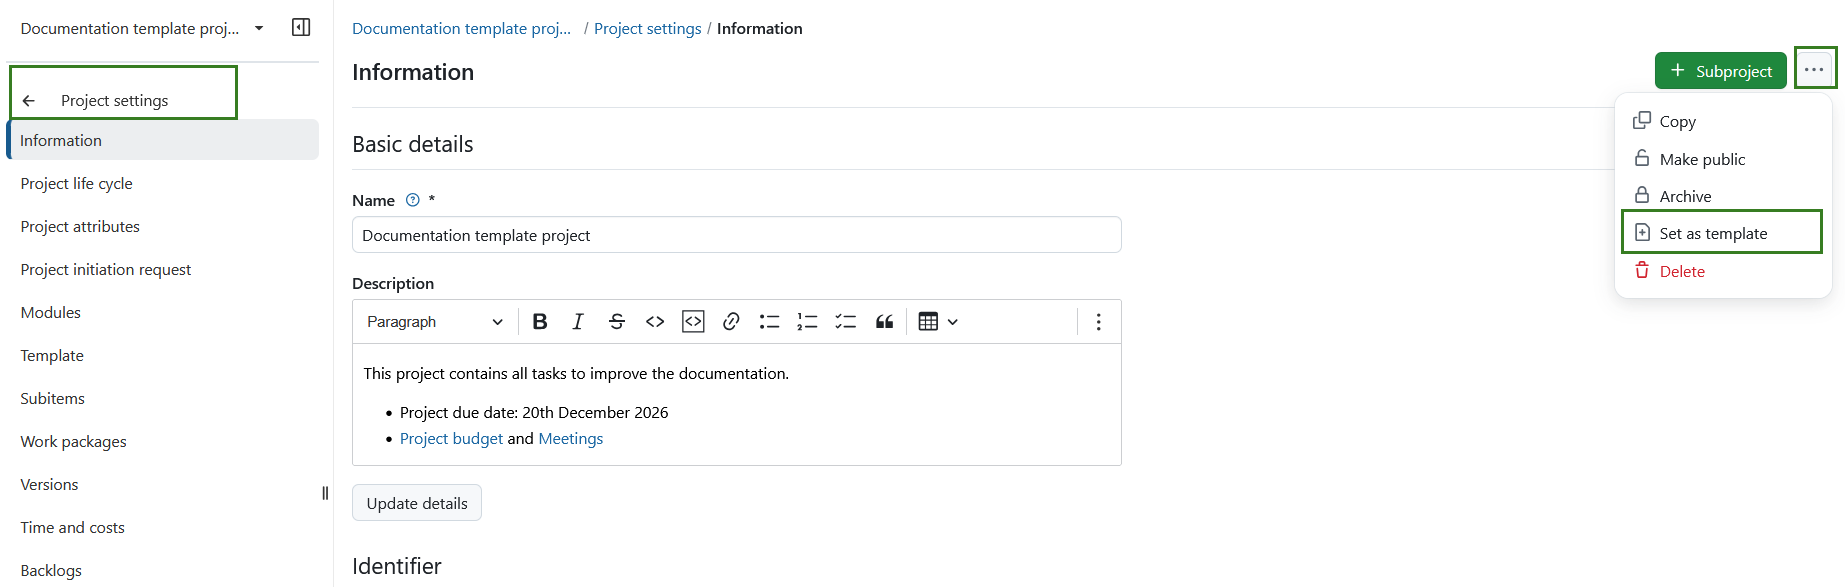
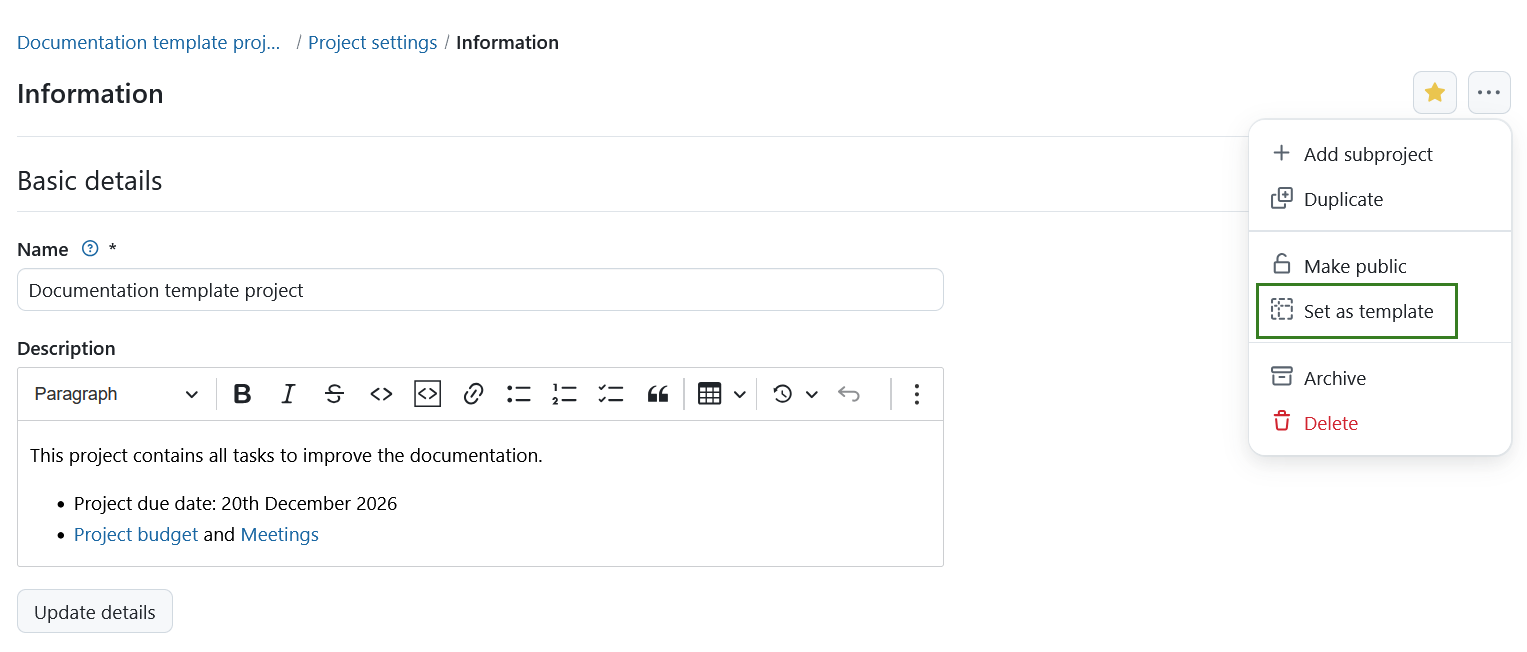
[DOCU-860] 17.8 Project changes  https://community.openproject.org/wp/DOCU-860
[DOCU-860] 17.8 Project changes

https://community.openproject.org/wp/DOCU-860

diff --git a/docs/user-guide/file-management/file-management-faq/README.md b/docs/user-guide/file-management/file-management-faq/README.md
@@ -23,7 +23,7 @@ Yes, that is possible. If you work with automatically managed folders, the corre
 
 ## Can I copy a project, including the file storage?
 
-Yes, you can. If the file storage in your project had the automatically managed folders selected during the set-up, the folder with all files will be copied. If the file storage was added with manual managed folders, the new copy of the project will have the same file storage setup and reference the original folder without copying it. Read more about copying projects [here](../../projects/project-settings/project-information/#copy-a-project).
+Yes, you can. If the file storage in your project had the automatically managed folders selected during the set-up, the folder with all files will be copied. If the file storage was added with manual managed folders, the new copy of the project will have the same file storage setup and reference the original folder without copying it. Read more about copying or duplicating projects [here](../../projects/project-settings/project-information/#duplicate-a-project).
 
 > [!IMPORTANT]
 > In Sharepoint you can add (custom) columns in addition to the ones shown by default (_Modified_ and _Modified by_).

diff --git a/docs/user-guide/projects/README.md b/docs/user-guide/projects/README.md
@@ -23,7 +23,7 @@ Your projects can be available publicly or internally. OpenProject does not limi
 | [Set a project to public](./project-settings/project-information/#make-a-project-public) | Make a project accessible to (at least) all users within your instance. |
 | [Create a project template](./project-templates/#create-a-project-template) | Configure a project and set it as a template to copy it for future projects. |
 | [Use a project template](./project-templates/#use-a-project-template) | Create a new project based on an existing template project.  |
-| [Copy a project](./project-settings/project-information/#copy-a-project) | Copy an existing project.                                    |
+| [Duplicate a project](./project-settings/project-information/#duplicate-a-project) | Copy or duplicate an existing project.                       |
 | [Archive a project](./project-settings/project-information/#archive-a-project) | Find out how to archive completed projects.                  |
 | [Delete a project](./project-settings/project-information/#delete-a-project) | How to delete a project.                                     |
 

diff --git a/docs/user-guide/projects/project-templates/README.md b/docs/user-guide/projects/project-templates/README.md
@@ -38,7 +38,7 @@ You can create a new project by using an existing template. This copies the temp
 > [!TIP]
 > If you do not see any template options, this may be because no projects have been set as project templates yet, or because you do not have access to any template projects. Only templates that are public or where you are a project member are shown, allowing different user groups to see only the templates relevant to them.
 
-Alternatively, you can [copy the project](../project-settings/project-information/#copy-a-project) to use it as a template.
+Alternatively, you can [duplicate the project](../project-settings/project-information/#duplicate-a-project) to use it as a template.
 
 <video src="https://openproject-docs.s3.eu-central-1.amazonaws.com/videos/OpenProject-Project-Templates.mp4"></video>
 
